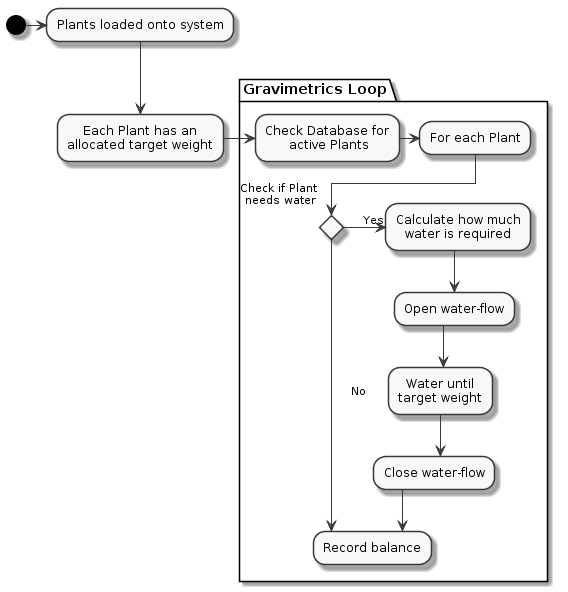
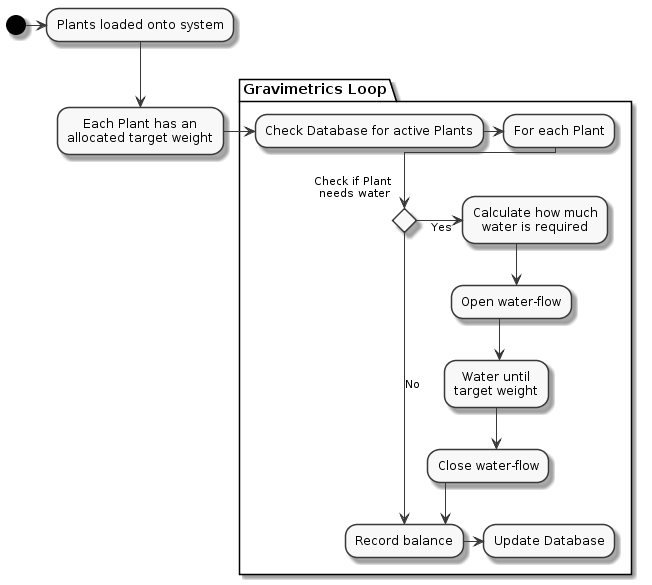
Updates to documentation

Changed region(s): [[0.0599, 0.1231, 0.9877, 1.0], [0.0, 0.0, 0.4489, 0.0923]]

diff --git a/README.md b/README.md
@@ -22,11 +22,15 @@ The basic day-to-day flow is as such:
 
 ![img](./Documents/Diagrams/Flow/flow.png)
 
-Additiona; interactions, such as updating weights or changing watering times/frequency is performed manually through the web interface.
+Additional interactions, such as updating weights or changing watering times/frequency is performed manually through the web interface.
 
 # Components
 
 Key components provided are:
+
+## Master Controller
+
+To provide a clean and simple interface between hardware and software, a central python script is used to fetch information from the database and pass it to the low-level hardware interactions, it also interprets output and updates the database accordingly.
 
 ## Hardware Interaction
 
@@ -34,10 +38,16 @@ A low-level unix C library named "Gravi<sub>Utils</sub>" is used to interact wit
 
 In addition to reading balance information for a series of load-cells, the utilities library controls and manages the watering of plants.
 
+## Web Interface
+
+A Flask based web server allows for simple uploading of new plants and experiments onto the system - this is designed for non-technical users to interact with.
+
+Relying heavily on interpreting CSV files and converting them to database queries, the interaction is straight forward.
+
 ## System Design Documentation
 
-## Raspberry Pi Setup
+Everything from electrical wiring diagrams, Raspberry Pi GPIO connections to prototype designs are available in various files.
 
 ## Database Configuration
 
-## Web Interface
+A MySQL database has been used for this project, setup scripts and database schemas are provided that quickly construct and setup all tables and requirements.
